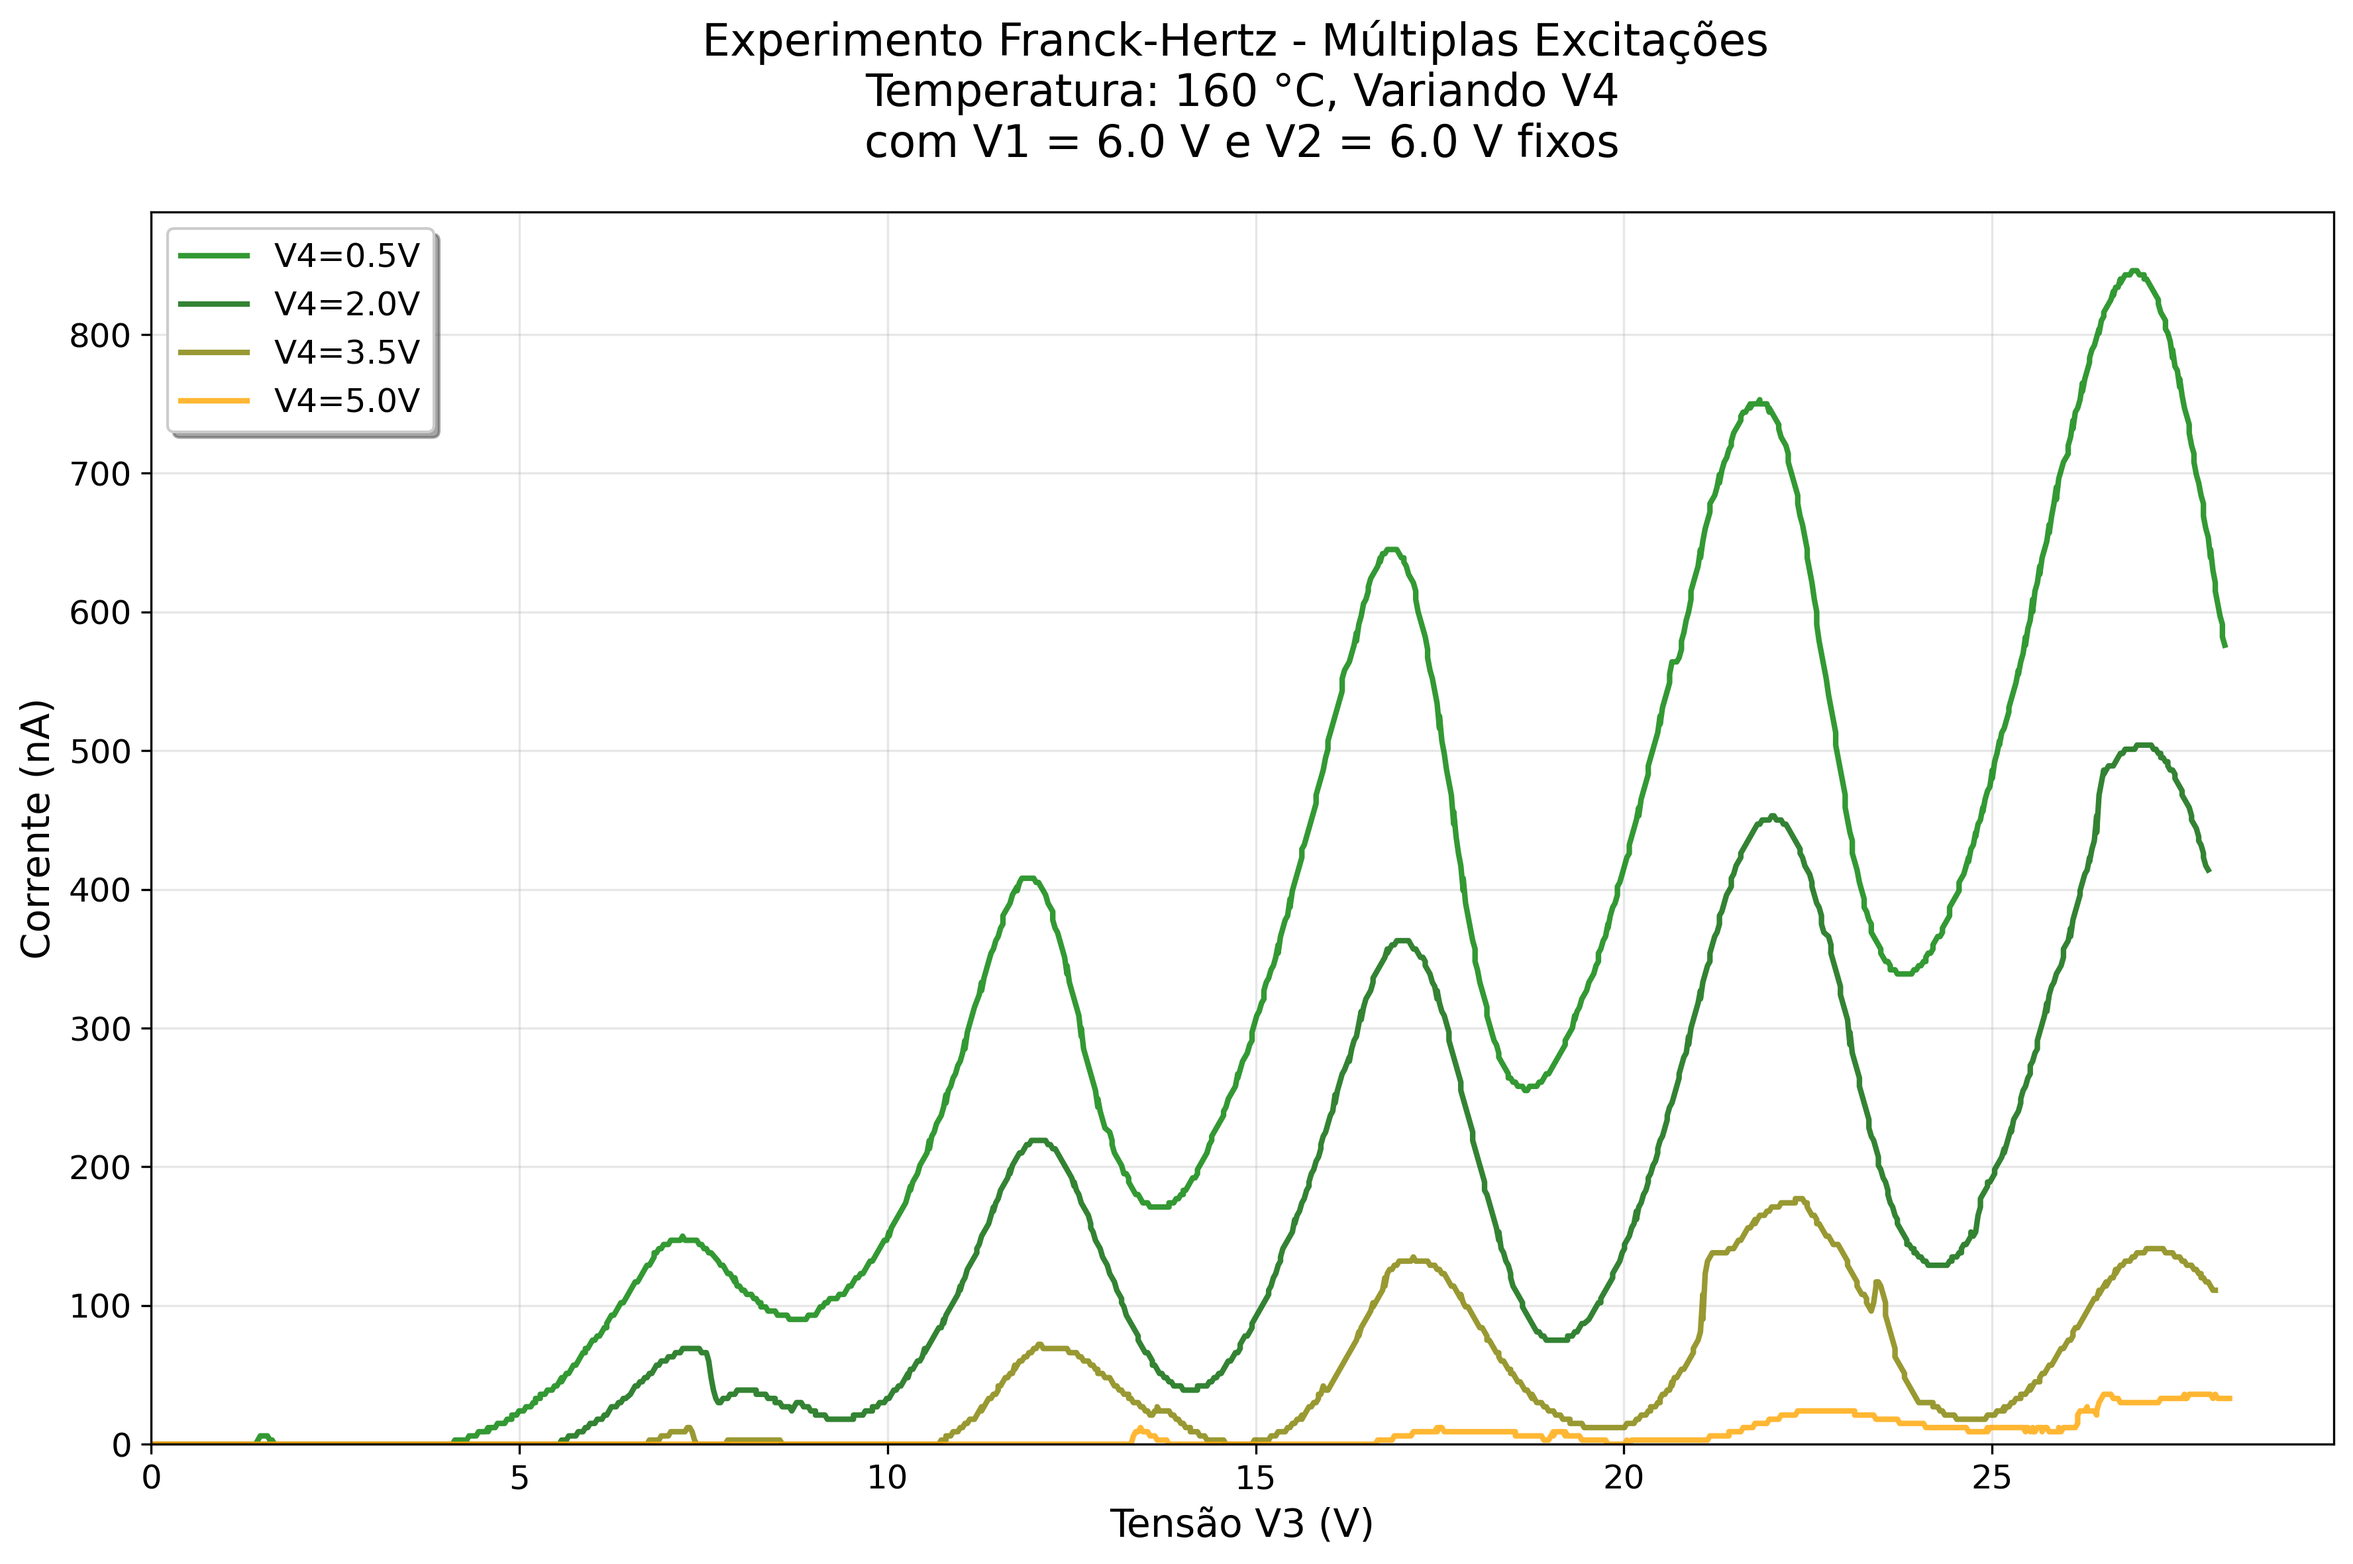
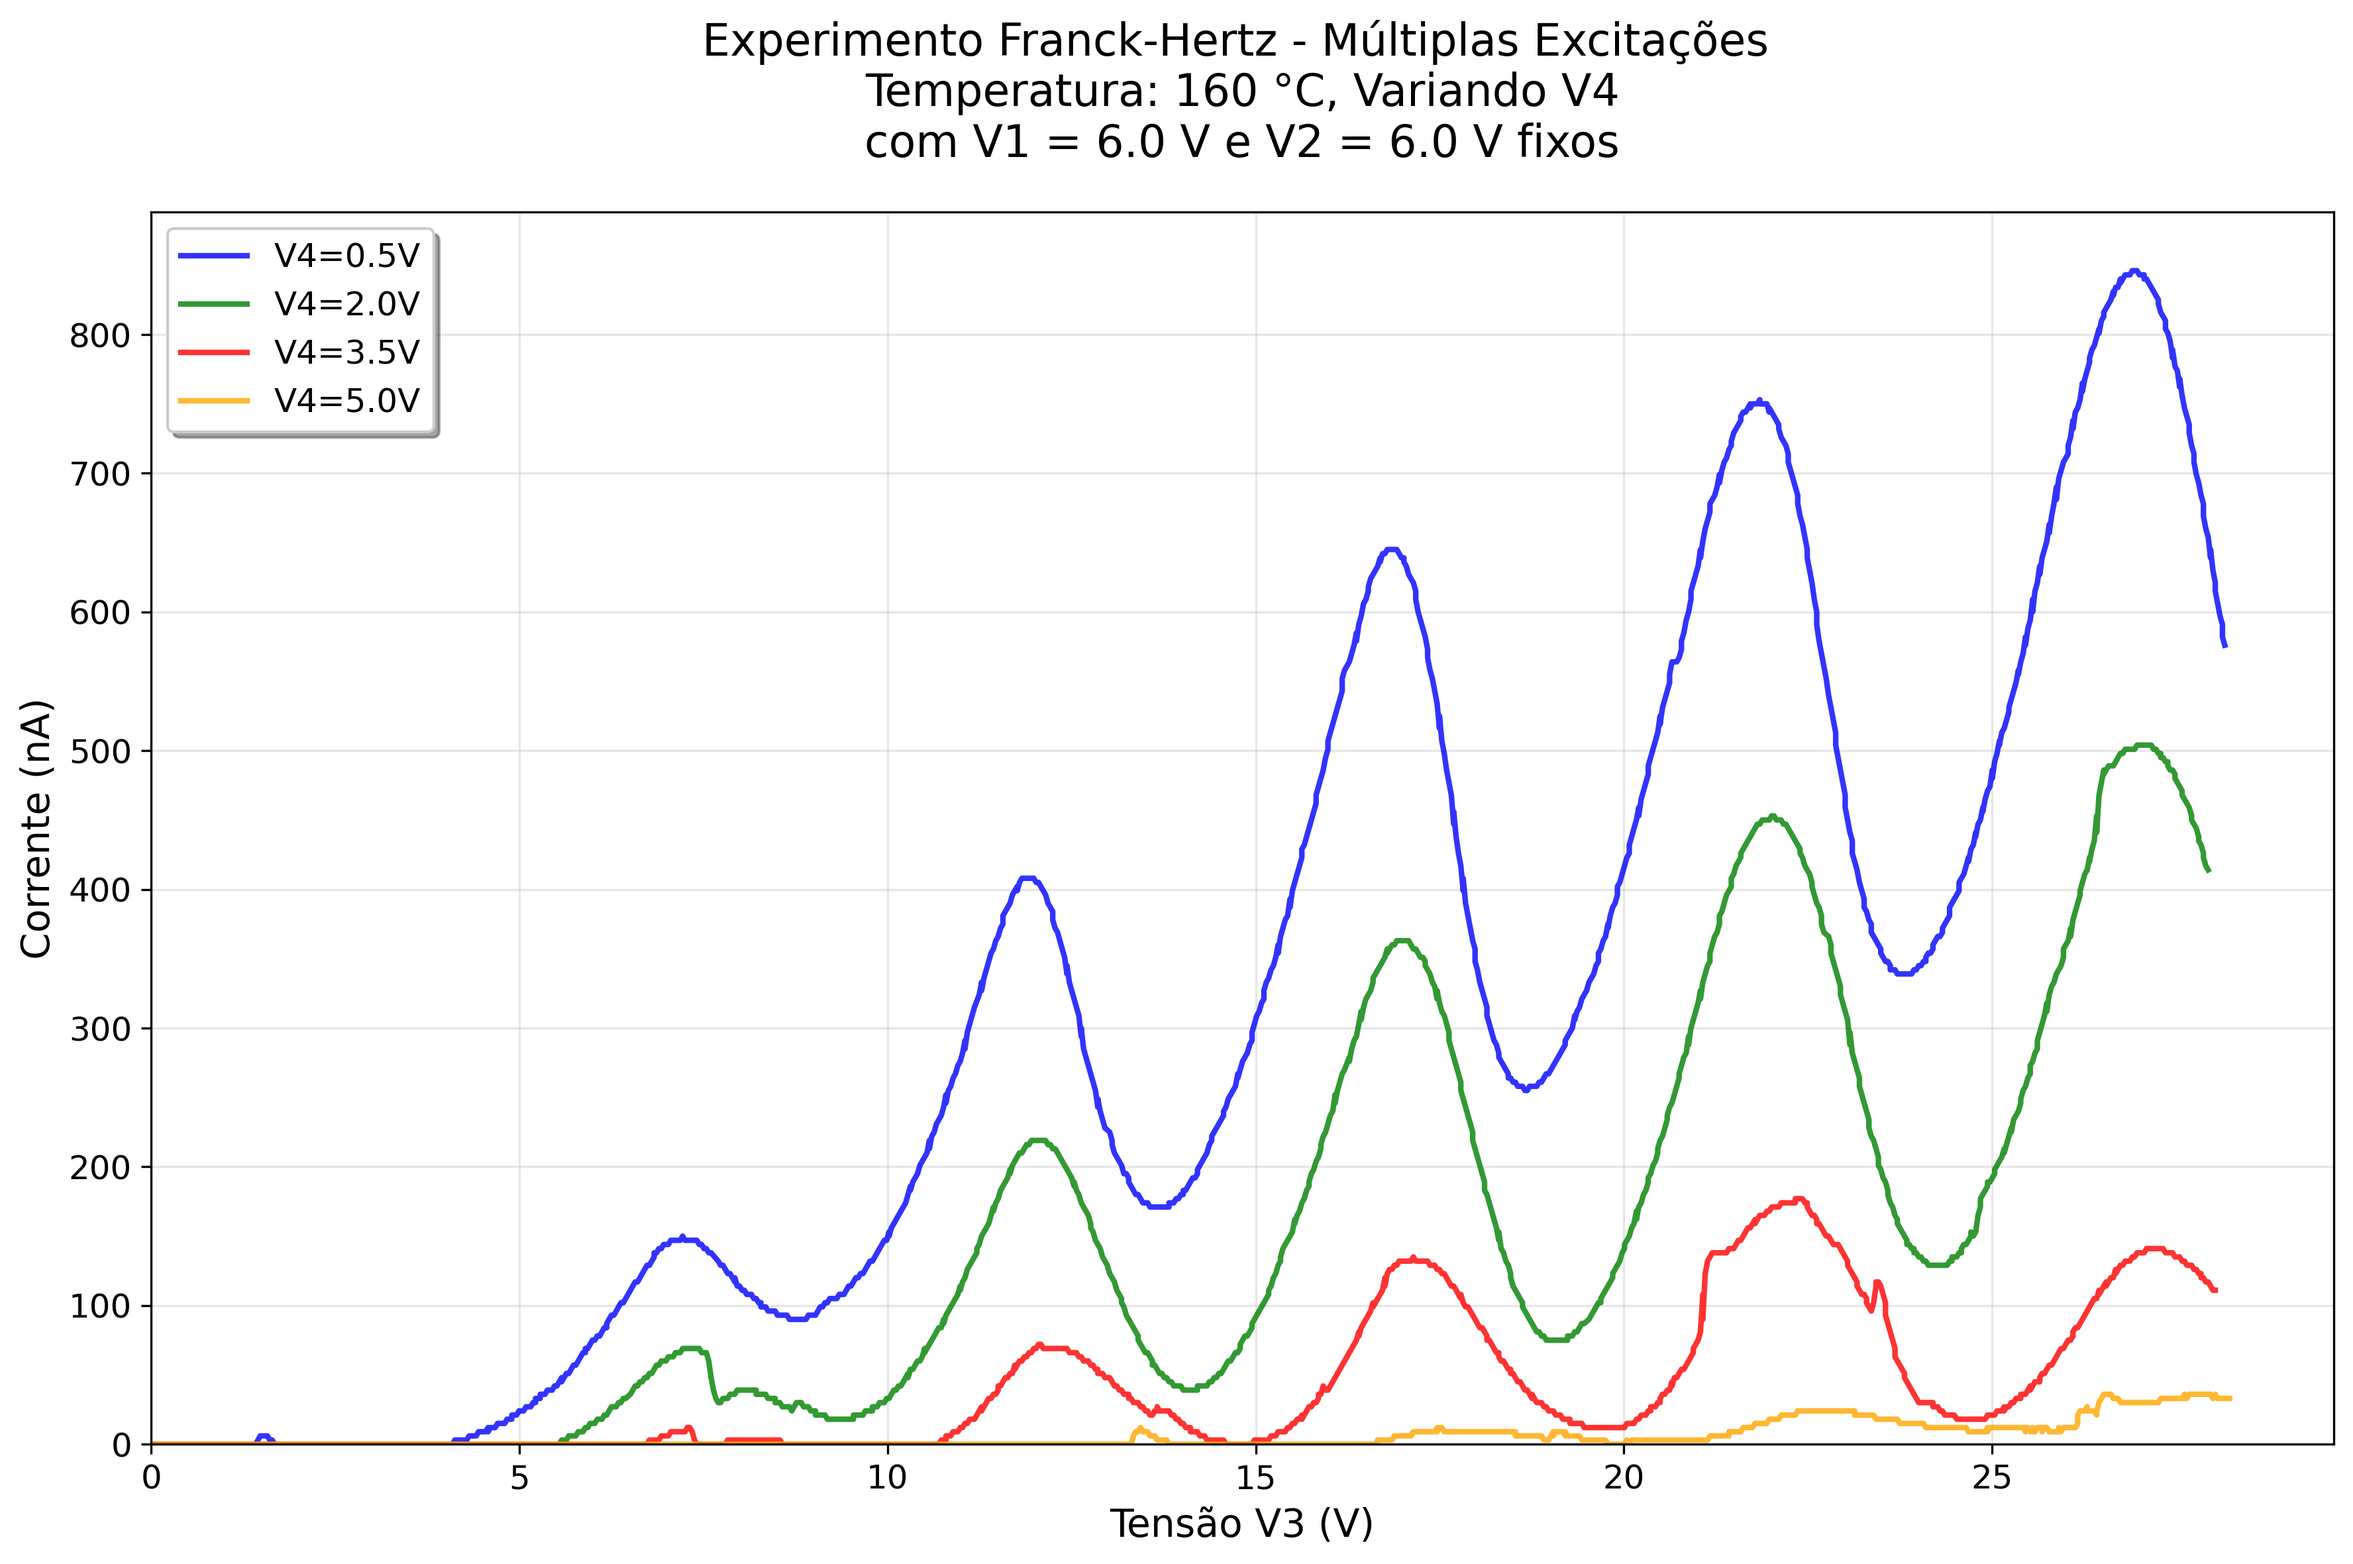
minor ajustment

diff --git a/2-FranckHertz/multiplas.py b/2-FranckHertz/multiplas.py
@@ -143,7 +143,8 @@ def generate_graph(data_list, graph_type, temp_folder, temp_celsius, output_dir,
         data_list.sort(key=lambda x: x['v4'])
     
     fig, ax = plt.subplots(1, 1, figsize=(12, 8))
-    cores = ['green', 'darkgreen', 'olive', 'orange', 'orangered', 'red', 'darkred', 'blue', 'darkblue']
+    # Cores para cada curva (similar ao graph.py)
+    cores = ['blue', 'green', 'red', 'orange', 'yellow', 'purple', 'brown', 'pink', 'gray', 'olive']
     
     for i, data in enumerate(data_list):
         tensao_valid = data['tensao']

diff --git a/2-FranckHertz/uma.py b/2-FranckHertz/uma.py
@@ -131,7 +131,7 @@ def generate_graph_for_coef(data_list, coef_dir, output_dir):
         color = cores[i % len(cores)]
         
         # Aplicar conversão para nanoampères: dado * coef * 1e9
-        corrente_scaled = corrente_valid * coef_value * 1e9
+        corrente_scaled = corrente_valid * coef_value * 1e9 / 100
         
         # Ordenar por tensão para conexão correta
         sort_idx = np.argsort(tensao_valid)

diff --git a/2-FranckHertz/ionizacao.py b/2-FranckHertz/ionizacao.py
@@ -132,7 +132,7 @@ def generate_graph(all_data, output_dir):
         corrente_sorted = corrente_scaled[sort_idx]
         
         # Legenda apenas com temperatura
-        label = f'{temp_celsius} °C'
+        label = f'{temp_celsius}'
         
         # Plot dos dados conectados por linhas simples
         ax.plot(tensao_sorted, corrente_sorted, 
